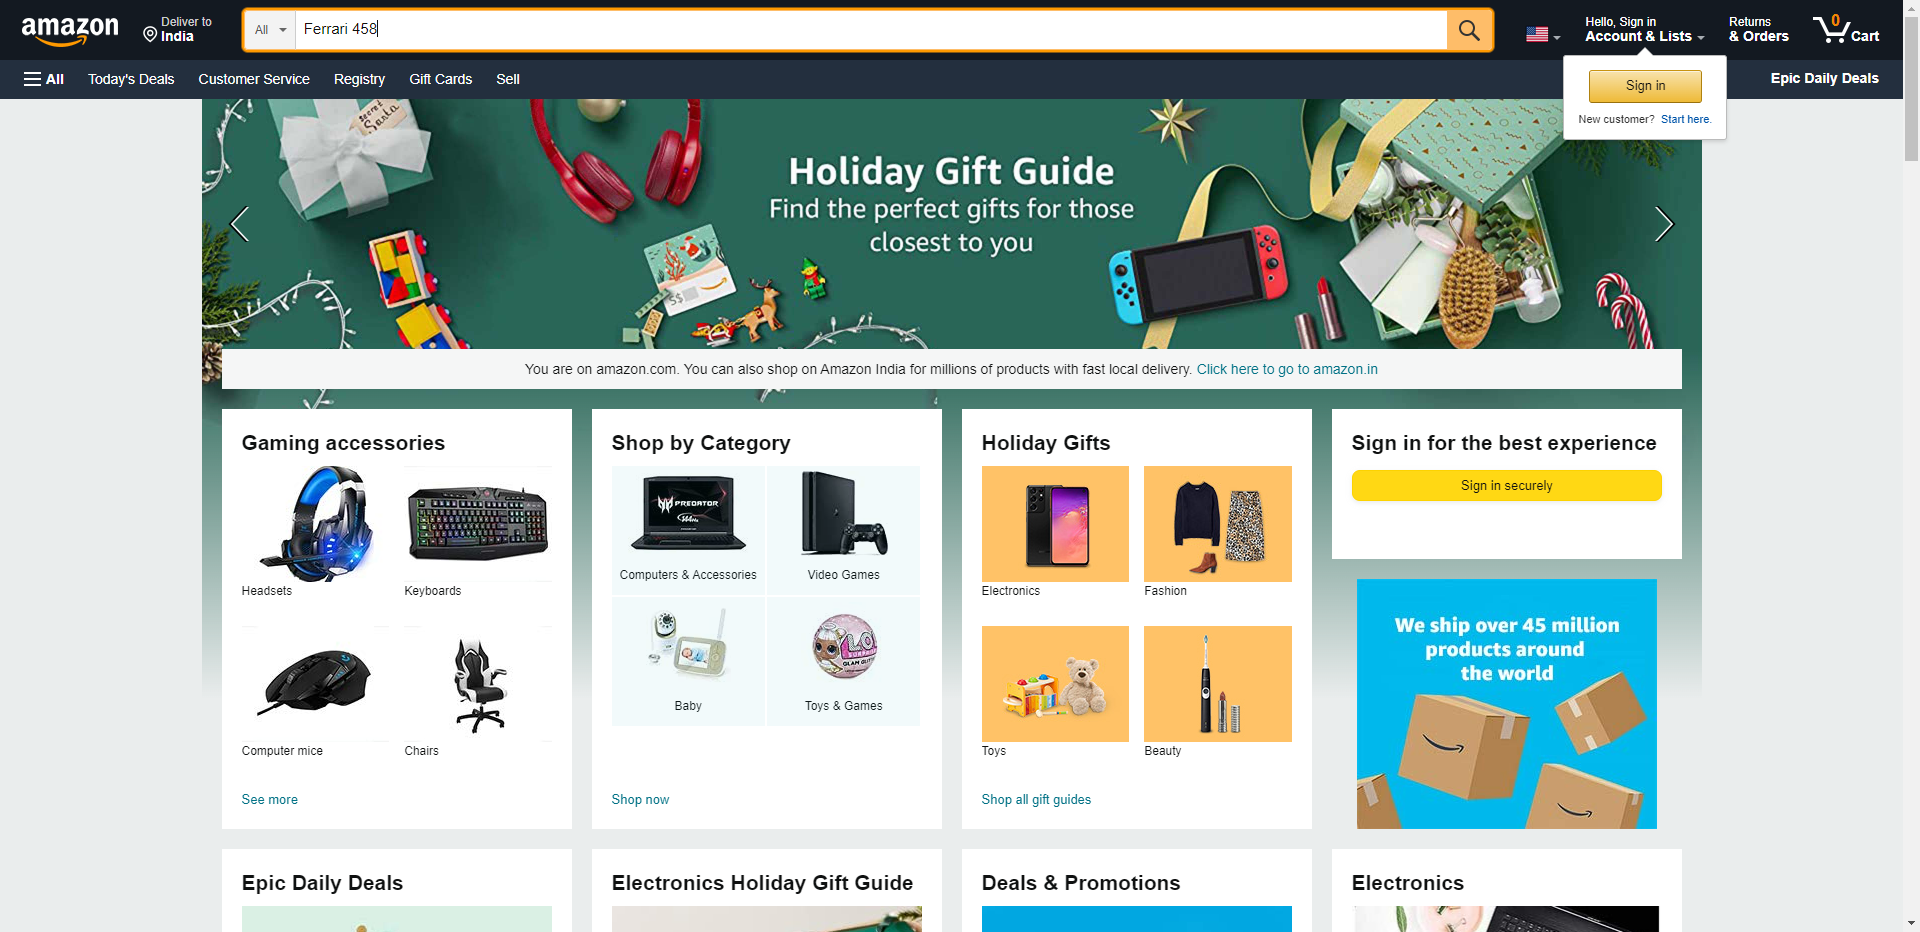
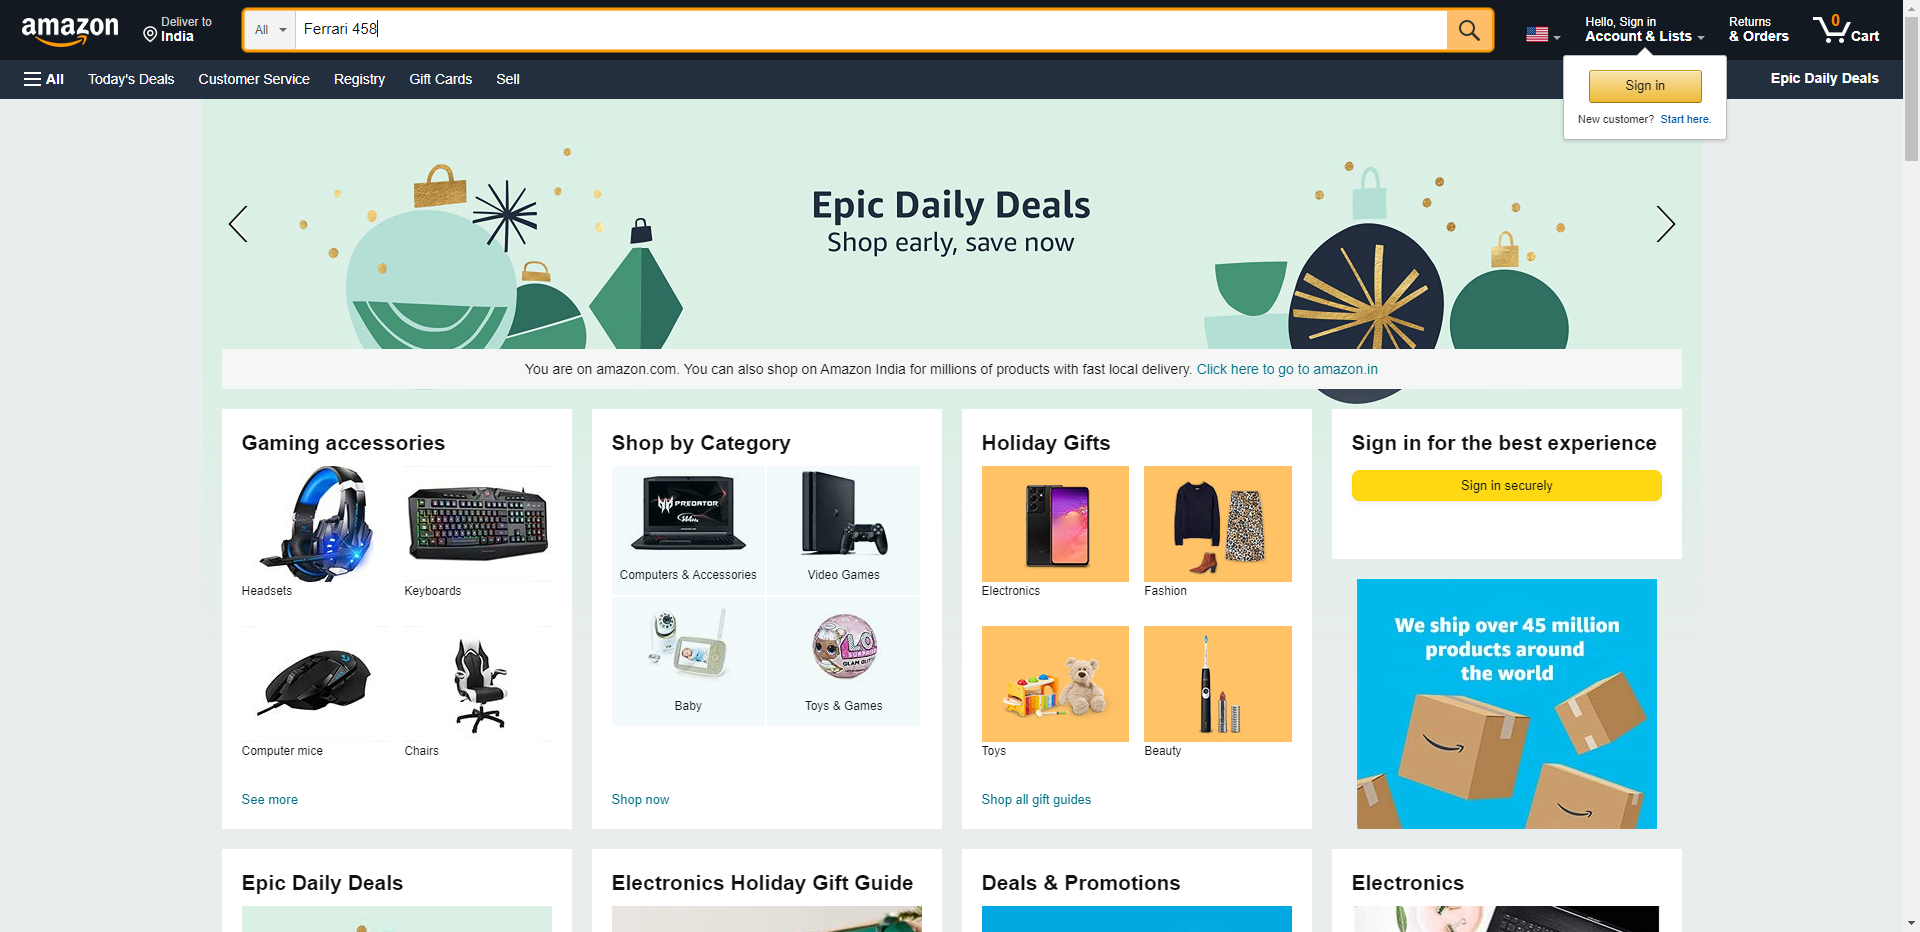
command line added

Changed region(s): [[0.0938, 0.0933, 0.9062, 0.7157]]

diff --git a/Results/log.html b/Results/log.html
@@ -1799,25 +1799,25 @@ function stopPropagation(event) {
 window.output = {};
 </script>
 <script type="text/javascript">
-window.output["suite"] = [1,2,3,4,[],[1,0,20388],[],[[5,0,6,[7],[1,192,20193],[[1,8,9,0,0,0,0,0,[1,193,1301],[[0,10,11,0,12,13,0,0,[1,193,1300],[[8,193,2,14]]]]],[0,15,16,0,0,0,0,0,[1,1494,12401],[[0,17,18,0,0,0,0,0,[1,1495,7359],[[0,19,11,0,20,21,0,0,[1,1495,7240],[[8,1495,2,22]]],[0,23,11,0,24,0,0,0,[1,8735,119],[]]]],[0,25,18,0,0,0,0,0,[1,8854,441],[[0,26,11,0,27,28,0,0,[1,8854,39],[]],[0,29,11,0,30,31,0,0,[1,8893,402],[[8,9295,2,32]]]]],[0,33,34,0,0,0,0,0,[1,9295,4352],[[0,35,34,0,0,0,0,0,[1,9295,397],[[0,36,11,0,37,38,0,0,[1,9296,123],[[8,9296,2,39]]],[0,29,11,0,30,40,0,0,[1,9420,272],[[8,9692,2,41]]]]],[0,42,34,0,0,0,0,0,[1,9692,3955],[[0,43,11,0,44,45,0,0,[1,9693,3699],[[8,9693,2,46]]],[0,29,11,0,30,47,0,0,[1,13392,255],[[8,13647,2,48]]]]]]],[0,49,50,0,0,0,0,0,[1,13647,248],[[0,26,11,0,27,51,0,0,[1,13647,19],[]],[0,29,11,0,30,52,0,0,[1,13666,229],[[8,13895,2,53]]]]]]],[0,54,16,0,0,0,0,0,[1,13896,3879],[[0,55,56,0,0,0,0,0,[1,13896,3879],[[0,57,11,0,58,59,0,0,[1,13896,3643],[[8,13897,2,60]]],[0,29,11,0,30,61,0,0,[1,17539,235],[[8,17774,2,62]]]]]]],[2,63,9,0,0,0,0,0,[1,17775,2609],[[0,64,11,0,65,0,0,0,[1,17775,2609],[]]]]]]],[],[1,1,0,0]];
+window.output["suite"] = [1,2,3,4,[],[1,0,16545],[],[[5,0,6,[7],[1,183,16359],[[1,8,9,0,0,0,0,0,[1,184,1384],[[0,10,11,0,12,13,0,0,[1,184,1384],[[8,184,2,14]]]]],[0,15,16,0,0,0,0,0,[1,1568,9288],[[0,17,18,0,0,0,0,0,[1,1570,4859],[[0,19,11,0,20,21,0,0,[1,1570,4721],[[8,1570,2,22]]],[0,23,11,0,24,0,0,0,[1,6292,137],[]]]],[0,25,18,0,0,0,0,0,[1,6429,23],[[0,26,11,0,27,28,0,0,[1,6430,22],[]],[0,29,30,0,31,32,0,0,[1,6452,0],[[8,6452,2,32]]]]],[0,33,34,0,0,0,0,0,[1,6452,4387],[[0,35,34,0,0,0,0,0,[1,6452,141],[[0,36,11,0,37,38,0,0,[1,6453,139],[[8,6453,2,39]]],[0,29,30,0,31,32,0,0,[1,6593,0],[[8,6593,2,32]]]]],[0,40,34,0,0,0,0,0,[1,6593,4245],[[0,41,11,0,42,43,0,0,[1,6594,4243],[[8,6594,2,44]]],[0,29,30,0,31,32,0,0,[1,10837,1],[[8,10838,2,32]]]]]]],[0,45,46,0,0,0,0,0,[1,10839,17],[[0,26,11,0,27,47,0,0,[1,10839,17],[]],[0,29,30,0,31,32,0,0,[1,10856,0],[[8,10856,2,32]]]]]]],[0,48,16,0,0,0,0,0,[1,10857,3206],[[0,49,50,0,0,0,0,0,[1,10857,3206],[[0,51,11,0,52,53,0,0,[1,10857,3205],[[8,10858,2,54]]],[0,29,30,0,31,32,0,0,[1,14062,0],[[8,14062,2,32]]]]]]],[2,55,9,0,0,0,0,0,[1,14063,2478],[[0,56,11,0,57,0,0,0,[1,14064,2477],[]]]]]]],[],[1,1,0,0]];
 </script>
 <script type="text/javascript">
 window.output["strings"] = [];
 </script>
 <script type="text/javascript">
-window.output["strings"] = window.output["strings"].concat(["*","*Amazon","*C:\\Users\\Animesh_Mukherjee\\PycharmProjects\\Python_Robot_Framework\\Tests\\Amazon.robot","*../Tests/Amazon.robot","*<p>This is where we declare all the libraries\x3c/p>","*Use must sign in to checkout","*<p>This is a basic information about test\x3c/p>","*Smoke","*Begin Web Test","*Common","*Open Browser","*SeleniumLibrary","*<p>Opens a new browser instance to the optional <code>url\x3c/code>.\x3c/p>","*about:blank, ${WEB_BROWSER}","*Opening browser 'chrome' to base url 'about:blank'.","*Search for products","*AmazonWeb","*Load Website","*LandingPage","*Go To","*<p>Navigates the current browser window to the provided <code>url\x3c/code>.\x3c/p>","*${TEST_URL}","*Opening url '<a href=\"https://www.amazon.com\">https://www.amazon.com\x3c/a>'","*Maximize Browser Window","*<p>Maximizes current browser window.\x3c/p>","*Verify Page Load","*Wait Until Page Contains","*<p>Waits until <code>text\x3c/code> appears on the current page.\x3c/p>","*Epic Daily Deals","*Capture Page Screenshot","*<p>Takes a screenshot of the current page and embeds it into a log file.\x3c/p>","*landing_page.png","*\x3c/td>\x3c/tr><tr><td colspan=\"3\"><a href=\"landing_page.png\"><img src=\"landing_page.png\" width=\"800px\">\x3c/a>","*Search For Products","*TopNavigation","*Enter Product Name","*Input Text","*<p>Types the given <code>text\x3c/code> into the text field identified by <code>locator\x3c/code>.\x3c/p>","*${TOP_NAV_SEARCH_BAR}, ${SEARCH_TERM}","*Typing text 'Ferrari 458' into text field 'xpath=//*[@id=\"twotabsearchtextbox\"]'.","*product_search_term.png","*\x3c/td>\x3c/tr><tr><td colspan=\"3\"><a href=\"product_search_term.png\"><img src=\"product_search_term.png\" width=\"800px\">\x3c/a>","*Click On Search","*Click Button","*<p>Clicks the button identified by <code>locator\x3c/code>.\x3c/p>","*${TOP_NAV_SEARCH_BUTTON}","*Clicking button 'id=nav-search-submit-button'.","*product_list.png","*\x3c/td>\x3c/tr><tr><td colspan=\"3\"><a href=\"product_list.png\"><img src=\"product_list.png\" width=\"800px\">\x3c/a>","*Verify Search Result","*SearchResultPage","*results for \"${SEARCH_TERM}\"","*seached_products.png","*\x3c/td>\x3c/tr><tr><td colspan=\"3\"><a href=\"seached_products.png\"><img src=\"seached_products.png\" width=\"800px\">\x3c/a>","*Select product","*Verify Product Page","*ProductPage","*Click Element","*<p>Click the element identified by <code>locator\x3c/code>.\x3c/p>","*${PRODUCT_LINK}","*Clicking element 'xpath=//span[contains(text(),'Hot Wheels HW City 35/250 Ferrari 458 Italia')]'.","*searched_product.png","*\x3c/td>\x3c/tr><tr><td colspan=\"3\"><a href=\"searched_product.png\"><img src=\"searched_product.png\" width=\"800px\">\x3c/a>","*End Web Test","*Close Browser","*<p>Closes the current browser.\x3c/p>"]);
+window.output["strings"] = window.output["strings"].concat(["*","*Amazon","*C:\\Users\\Animesh_Mukherjee\\PycharmProjects\\Python_Robot_Framework\\Tests\\Amazon.robot","*../Tests/Amazon.robot","*<p>This is where we declare all the libraries\x3c/p>","*Use should able to select searched product","*<p>This is a basic information about test\x3c/p>","*Smoke","*Begin Web Test","*Common","*Open Browser","*SeleniumLibrary","*<p>Opens a new browser instance to the optional <code>url\x3c/code>.\x3c/p>","*about:blank, ${WEB_BROWSER}","*Opening browser 'chrome' to base url 'about:blank'.","*Search for products","*AmazonWeb","*Load Website","*LandingPage","*Go To","*<p>Navigates the current browser window to the provided <code>url\x3c/code>.\x3c/p>","*${TEST_URL}","*Opening url '<a href=\"https://www.amazon.com\">https://www.amazon.com\x3c/a>'","*Maximize Browser Window","*<p>Maximizes current browser window.\x3c/p>","*Verify Page Load","*Wait Until Page Contains","*<p>Waits until <code>text\x3c/code> appears on the current page.\x3c/p>","*Epic Daily Deals","*Log","*BuiltIn","*<p>Logs the given message with the given level.\x3c/p>","*capture page screenshot","*Search For Products","*TopNavigation","*Enter Product Name","*Input Text","*<p>Types the given <code>text\x3c/code> into the text field identified by <code>locator\x3c/code>.\x3c/p>","*${TOP_NAV_SEARCH_BAR}, ${SEARCH_TERM}","*Typing text 'Ferrari 458' into text field 'xpath=//*[@id=\"twotabsearchtextbox\"]'.","*Click On Search","*Click Button","*<p>Clicks the button identified by <code>locator\x3c/code>.\x3c/p>","*${TOP_NAV_SEARCH_BUTTON}","*Clicking button 'id=nav-search-submit-button'.","*Verify Search Result","*SearchResultPage","*results for \"${SEARCH_TERM}\"","*Select product","*Verify Product Page","*ProductPage","*Click Element","*<p>Click the element identified by <code>locator\x3c/code>.\x3c/p>","*${PRODUCT_LINK}","*Clicking element 'xpath=//span[contains(text(),'Hot Wheels HW City 35/250 Ferrari 458 Italia')]'.","*End Web Test","*Close Browser","*<p>Closes the current browser.\x3c/p>"]);
 </script>
 <script type="text/javascript">
-window.output["stats"] = [[{"elapsed":"00:00:20","fail":0,"label":"All Tests","pass":1,"skip":0}],[{"elapsed":"00:00:20","fail":0,"label":"Smoke","pass":1,"skip":0}],[{"elapsed":"00:00:20","fail":0,"id":"s1","label":"Amazon","name":"Amazon","pass":1,"skip":0}]];
+window.output["stats"] = [[{"elapsed":"00:00:16","fail":0,"label":"All Tests","pass":1,"skip":0}],[{"elapsed":"00:00:16","fail":0,"label":"Smoke","pass":1,"skip":0}],[{"elapsed":"00:00:17","fail":0,"id":"s1","label":"Amazon","name":"Amazon","pass":1,"skip":0}]];
 </script>
 <script type="text/javascript">
 window.output["errors"] = [];
 </script>
 <script type="text/javascript">
-window.output["baseMillis"] = 1638963973835;
+window.output["baseMillis"] = 1638965342002;
 </script>
 <script type="text/javascript">
-window.output["generated"] = 20415;
+window.output["generated"] = 16585;
 </script>
 <script type="text/javascript">
 window.output["expand_keywords"] = null;

diff --git a/Results/report.html b/Results/report.html
@@ -1628,22 +1628,22 @@ storage = function () {
 window.output = {};
 </script>
 <script type="text/javascript">
-window.output["suite"] = [1,2,3,4,[],[1,0,20388],[],[[5,0,6,[7],[1,192,20193],[]]],[],[1,1,0,0]];
+window.output["suite"] = [1,2,3,4,[],[1,0,16545],[],[[5,0,6,[7],[1,183,16359],[]]],[],[1,1,0,0]];
 </script>
 <script type="text/javascript">
 window.output["strings"] = [];
 </script>
 <script type="text/javascript">
-window.output["strings"] = window.output["strings"].concat(["*","*Amazon","*C:\\Users\\Animesh_Mukherjee\\PycharmProjects\\Python_Robot_Framework\\Tests\\Amazon.robot","*../Tests/Amazon.robot","*<p>This is where we declare all the libraries\x3c/p>","*Use must sign in to checkout","*<p>This is a basic information about test\x3c/p>","*Smoke"]);
+window.output["strings"] = window.output["strings"].concat(["*","*Amazon","*C:\\Users\\Animesh_Mukherjee\\PycharmProjects\\Python_Robot_Framework\\Tests\\Amazon.robot","*../Tests/Amazon.robot","*<p>This is where we declare all the libraries\x3c/p>","*Use should able to select searched product","*<p>This is a basic information about test\x3c/p>","*Smoke"]);
 </script>
 <script type="text/javascript">
-window.output["stats"] = [[{"elapsed":"00:00:20","fail":0,"label":"All Tests","pass":1,"skip":0}],[{"elapsed":"00:00:20","fail":0,"label":"Smoke","pass":1,"skip":0}],[{"elapsed":"00:00:20","fail":0,"id":"s1","label":"Amazon","name":"Amazon","pass":1,"skip":0}]];
+window.output["stats"] = [[{"elapsed":"00:00:16","fail":0,"label":"All Tests","pass":1,"skip":0}],[{"elapsed":"00:00:16","fail":0,"label":"Smoke","pass":1,"skip":0}],[{"elapsed":"00:00:17","fail":0,"id":"s1","label":"Amazon","name":"Amazon","pass":1,"skip":0}]];
 </script>
 <script type="text/javascript">
-window.output["baseMillis"] = 1638963973835;
+window.output["baseMillis"] = 1638965342002;
 </script>
 <script type="text/javascript">
-window.output["generated"] = 20415;
+window.output["generated"] = 16585;
 </script>
 <script type="text/javascript">
 window.output["expand_keywords"] = null;
